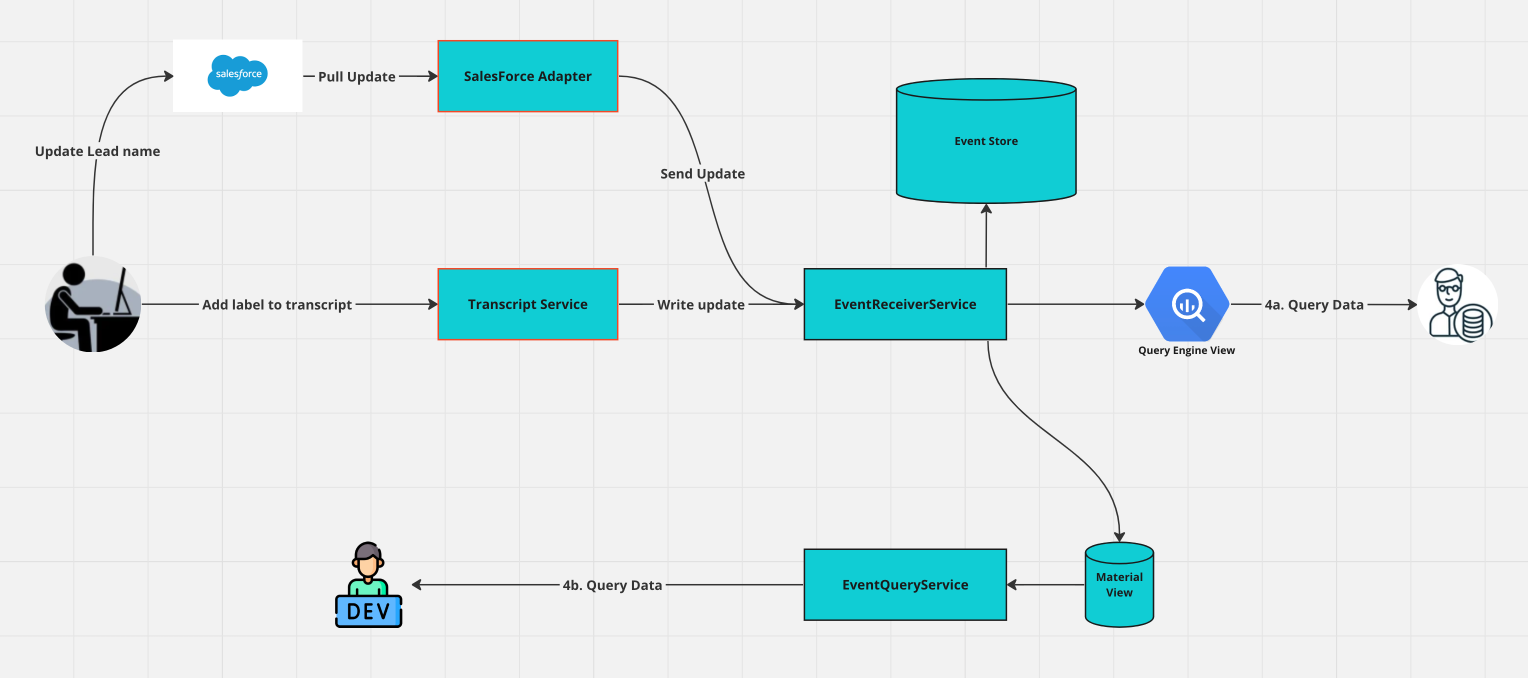
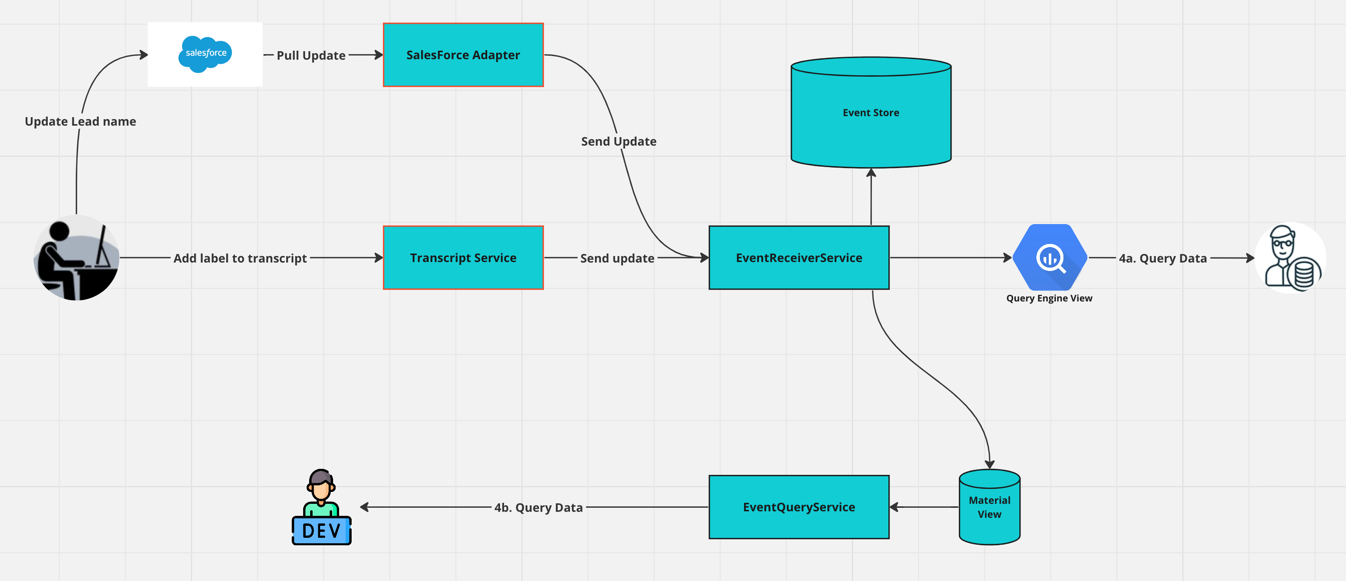
rework adapters section

diff --git a/dreampipe/adapters/writing_adapters.md b/dreampipe/adapters/writing_adapters.md
@@ -1,15 +1,37 @@
-# <u>Writing Adapters</u>
+# <u>Writing Producers</u>
 
-The adapters are components responsible for extracting data and sending them to the Event Receiver Service. The adapter determines the structure of your entities and describes them explicitly, so they are understood downstream.
+The producers are components responsible for sending data to the Event Receiver Service. The producer determines the structure of your entities and describes them explicitly, so they are understood downstream.
+
+Producers can be written in two ways:
+#### Extractor
+- An Extractor Producer takes data from an external source, transforms it and then relays it to the ERS
+#### Direct
+- A Direct Producer generates its own data and sends it to the ERS
 
 The steps are generally as follows:
-1. Pull the raw data from your external source
-2. Rename and restructure your data.
+1. Pull the raw data from your external source (Extractor mode only)
+2. Rename and restructure your data. (Extractor mode only)
 3. Transform into the [YADTO](/dreampipe/yadto/YADTO.md) format. (This can be performed using a DreamPipe library)
 4. Send the YADTO data to the ERS.
 
+## <u>Unifying our Producers</u>
 
-## <u>A working example</u>
+You may have a webservice that generates data and wish to store it in DreamPipe directly. As well as data extracted from a 3rd party platform such as Salesforce. With DreamPipe, we unify our external and internal sources of data so that our architecture is the same for both. This allows us to replace third party tool functionality with our own seamlessly when we're ready. It also allows us to change vendors easily.
+
+Below is an example of an architecture where two sources are unified. An end user updates a Lead in Salesforce, for example, they update their name and date of birth. The user also adds a label to a transcript of a phone call that occurred for this lead.
+
+Transcript Service has its own web UI which the end user interacts with. It also writes the updates directly to the ERS. There's no database attached directly to the Transcript Service.
+
+In this example the end user adds a label to a transcript of a phone call, and then updates the Lead's name in Salesforce. You can see how the information quickly flows into the same path. And when we read the data, we use the same approach regardless of where the data was originally sourced from.
+
+![unified_write.png](unified_write.png)
+
+The Transcript Service can then read the current state from the Event Query Service as illustrated below:
+![transcript_read.png](transcript_read.png)
+
+## <u>A working example of an Extractor Producer</u>
+In this example, we're going to take data from Salesforce and transform it into a DreamPipe payload.
+
 For example, you may have pulled the following update from Salesforce for a Lead.
 <details>
 <summary><b>Expand to view JSON for Lead</b></summary>
@@ -122,8 +144,8 @@ public Map<String, EntityPropertyValue> transformJson(String jsonInput) {
                     .build();
 
     Map<String, EntityPropertyValue> dreamPipePayload = DreamPipePayload.builder()
-            .payload(campaignSnapshot)
-            .eventSource("myOrganization/salesforce-adapter") // eventSource is currently a required field
+            .payload(salesforceDreamPipeLead)
+            .eventSource("myOrganization/salesforce-extractor") // eventSource is currently a required field
             .eventVersion("1.0.0") // eventVersion is optional, you can use this for your own tracking of your object schema if you wish
             .build();
     return dreamPipePayload;
@@ -160,19 +182,3 @@ class SalesforceDreamPipeLead {
 </details>
 
 Your data is now ready to send to the Event Receiver Service!
-
-## <u>Writing data directly into DreamPipe</u>
-
-You may have a webservice that generates data and wish to store it in DreamPipe directly. At Origin8, we unify our external and internal sources of data so that our architecture is the same for both. This allows us to replace third party tool functionality with our own seamlessly when we're ready. It also allows us to change vendors easily.
-
-Below is an example of an architecture where two sources are unified. An end user updates a Lead in Salesforce, for example, they update their name and date of birth. The user also adds a label to a transcript of a phone call that occurred for this lead.
-
-Transcript Service has its own web UI which the end user interacts with. It also writes the updates directly to the ERS. There's no database attached directly to the Transcript Service.
-
-In this example the end user adds a label to a transcript of a phone call, and then updates the Lead's name in Salesforce. You can see how the information quickly flows into the same path. And when we read the data, we use the same approach regardless of where the data was originally sourced from.
-<<<<<<< Suggestion: Is the Transcript service different from an any other Adapter? Is there a difference between Send Update and Write Update? If not then I would suggest using same terminology for simplicity 
-<<<<<<< Suggestion: In the diagram, maybe rename `Transcript Service` to ` Transcript Adapter` for the sake of clarity
-![unified_write.png](unified_write.png)
-
-The Transcript Service can then read the current state from the Event Query Service as illustrated below: 
-![transcript_read.png](transcript_read.png)
